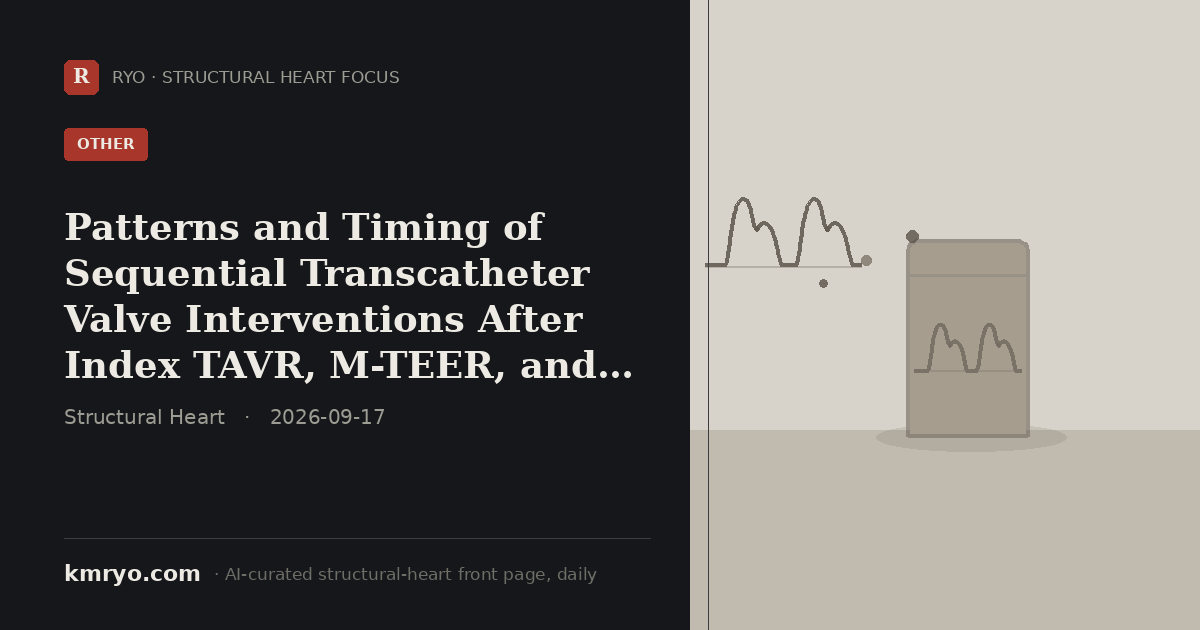
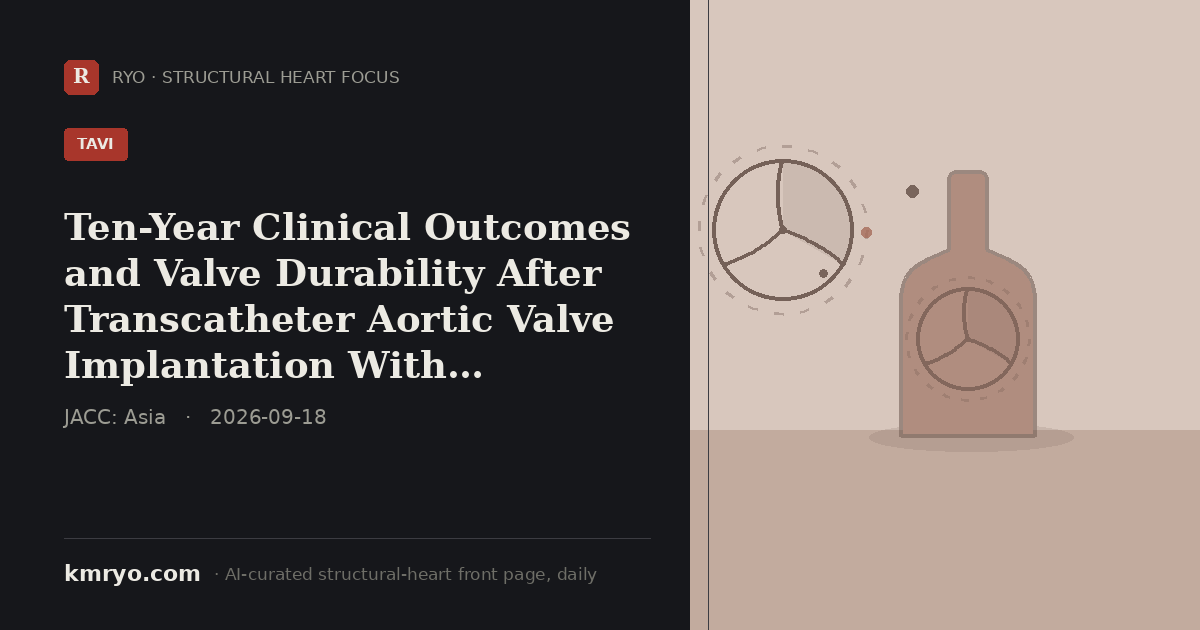
pulse: 2026-09-18 daily update
Claude-Session: https://claude.ai/code/session_01QCREYxAdfPH6hpvK57iFkE

diff --git a/index.html b/index.html
@@ -6,8 +6,8 @@
 <title>Structural Heart Focus — Daily | Dr. Mi Chen · 千觅量子 RYO</title>
 <meta name="description" content="Structural Heart Focus — the day's most important structural-heart reading (top journals, major meetings and the field's conversation), curated daily by an AI agent from inside the Zurich hybrid room. By Dr. Mi Chen · 千觅量子 RYO.">
 <!-- Social share card. Regenerated daily by the pulse agent (pulse/make_share_card.py); og:title/description updated to the day's top story so LinkedIn/WeChat/X show today's headline, not a static portrait. -->
-<meta property="og:title" content="Patterns and Timing of Sequential Transcatheter Valve Interventions After Index TAVR, M-TEER, and TMVR: A Nationwide Medicare Analysis">
-<meta property="og:description" content="A nationwide Medicare analysis of 527,976 patients finds repeat transcatheter valve interventions after TAVR, mitral TEER, or TMVR remain rare, with 5-year rates of 0.86%-4.48%.">
+<meta property="og:title" content="Ten-Year Clinical Outcomes and Valve Durability After Transcatheter Aortic Valve Implantation With Balloon-Expandable Valves">
+<meta property="og:description" content="A 10-year Japanese registry follow-up of 297 early-generation SAPIEN XT TAVI patients finds bioprosthetic valve failure of 10.8% and reintervention in 4.5%, reassuring long-term durability data.">
 <meta property="og:image" content="https://www.kmryo.com/pulse/img/share/card.png">
 <meta property="og:image:width" content="1200">
 <meta property="og:image:height" content="630">
@@ -16,8 +16,8 @@
 <meta property="og:type" content="website">
 <meta property="og:site_name" content="kmryo.com · Structural Heart Focus">
 <meta name="twitter:card" content="summary_large_image">
-<meta name="twitter:title" content="Patterns and Timing of Sequential Transcatheter Valve Interventions After Index TAVR, M-TEER, and TMVR: A Nationwide Medicare Analysis">
-<meta name="twitter:description" content="A nationwide Medicare analysis of 527,976 patients finds repeat transcatheter valve interventions after TAVR, mitral TEER, or TMVR remain rare, with 5-year rates of 0.86%-4.48%.">
+<meta name="twitter:title" content="Ten-Year Clinical Outcomes and Valve Durability After Transcatheter Aortic Valve Implantation With Balloon-Expandable Valves">
+<meta name="twitter:description" content="A 10-year Japanese registry follow-up of 297 early-generation SAPIEN XT TAVI patients finds bioprosthetic valve failure of 10.8% and reintervention in 4.5%, reassuring long-term durability data.">
 <meta name="twitter:image" content="https://www.kmryo.com/pulse/img/share/card.png">
[1 lines of base64/hex data omitted]
 <link rel="preconnect" href="https://fonts.googleapis.com">
